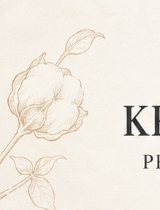
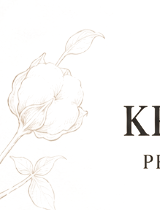
fix: restore clean pristine poster background, eliminate ghost inpaint artifacts, and apply alpha transparency to botanical assets

diff --git a/components/krishna/BotanicalDecoration.tsx b/components/krishna/BotanicalDecoration.tsx
@@ -8,7 +8,7 @@ export const BotanicalDecoration: React.FC = () => {
         src="/assets/botanical-cotton-top.png"
         alt=""
         aria-hidden="true"
-        className="absolute top-1 sm:top-2 left-0 w-24 sm:w-32 md:w-40 pointer-events-none select-none mix-blend-multiply opacity-75 z-0"
+        className="absolute top-0 left-0 w-24 sm:w-32 md:w-36 pointer-events-none select-none opacity-80 z-0"
       />
 
       {/* Top-Right: Botanical Groundnut/Peanut Illustration */}
@@ -16,7 +16,7 @@ export const BotanicalDecoration: React.FC = () => {
         src="/assets/botanical-peanut-top.png"
         alt=""
         aria-hidden="true"
-        className="absolute top-1 sm:top-2 right-0 w-24 sm:w-32 md:w-40 pointer-events-none select-none mix-blend-multiply opacity-75 z-0"
+        className="absolute top-0 right-0 w-24 sm:w-32 md:w-36 pointer-events-none select-none opacity-80 z-0"
       />
 
       {/* Bottom-Left: Cotton Branch Sketch */}
@@ -24,7 +24,7 @@ export const BotanicalDecoration: React.FC = () => {
         src="/assets/botanical-cotton-bottom.png"
         alt=""
         aria-hidden="true"
-        className="absolute bottom-0 left-0 w-20 sm:w-28 md:w-36 pointer-events-none select-none mix-blend-multiply opacity-70 z-0"
+        className="absolute bottom-0 left-0 w-20 sm:w-28 md:w-32 pointer-events-none select-none opacity-75 z-0"
       />
 
       {/* Bottom-Right: Peanuts Botanical Cluster Sketch */}
@@ -32,7 +32,7 @@ export const BotanicalDecoration: React.FC = () => {
         src="/assets/botanical-peanut-bottom.png"
         alt=""
         aria-hidden="true"
-        className="absolute bottom-0 right-0 w-20 sm:w-28 md:w-36 pointer-events-none select-none mix-blend-multiply opacity-70 z-0"
+        className="absolute bottom-0 right-0 w-20 sm:w-28 md:w-32 pointer-events-none select-none opacity-75 z-0"
       />
     </>
   );

diff --git a/app/page.tsx b/app/page.tsx
@@ -26,9 +26,37 @@ export default function DailyPricingLandingPage() {
       const savedData = localStorage.getItem("krishna_catalogue_data");
       if (savedData) {
         const parsed = JSON.parse(savedData);
+        // Clean out any legacy or corrupted template properties
+        delete parsed.customBgUrl;
+        delete parsed.templateId;
+        delete parsed.cottonSeedOil;
+        delete parsed.groundnutOil;
+
         setData({
+          ...INITIAL_CATALOGUE_DATA,
           ...parsed,
+          religiousHeading: parsed.religiousHeading || INITIAL_CATALOGUE_DATA.religiousHeading,
+          brandName: parsed.brandName || INITIAL_CATALOGUE_DATA.brandName,
+          subtitle: parsed.subtitle || INITIAL_CATALOGUE_DATA.subtitle,
+          footerNotice: parsed.footerNotice || INITIAL_CATALOGUE_DATA.footerNotice,
+          footerLocation: parsed.footerLocation || INITIAL_CATALOGUE_DATA.footerLocation,
           date: parsed.date || formattedDate,
+          trupti: {
+            ...INITIAL_CATALOGUE_DATA.trupti,
+            ...(parsed.trupti || {}),
+            brandName: parsed.trupti?.brandName || INITIAL_CATALOGUE_DATA.trupti.brandName,
+            subtitle: parsed.trupti?.subtitle || INITIAL_CATALOGUE_DATA.trupti.subtitle,
+            imageSrc: "/assets/trupti-product.png",
+            imageAlt: INITIAL_CATALOGUE_DATA.trupti.imageAlt,
+          },
+          krishna: {
+            ...INITIAL_CATALOGUE_DATA.krishna,
+            ...(parsed.krishna || {}),
+            brandName: parsed.krishna?.brandName || INITIAL_CATALOGUE_DATA.krishna.brandName,
+            subtitle: parsed.krishna?.subtitle || INITIAL_CATALOGUE_DATA.krishna.subtitle,
+            imageSrc: "/assets/krishna-product.png",
+            imageAlt: INITIAL_CATALOGUE_DATA.krishna.imageAlt,
+          },
         });
       } else {
         setData((prev) => ({

diff --git a/components/PriceCardPreview.tsx b/components/PriceCardPreview.tsx
@@ -20,6 +20,7 @@ export const PriceCardPreview = forwardRef<HTMLDivElement, PriceCardPreviewProps
         id="price-card-canvas"
         className="relative w-full max-w-[560px] aspect-[1122/1402] mx-auto rounded-3xl bg-[#FAF5EF] border border-[#E5DACD] shadow-2xl overflow-hidden p-4 sm:p-6 md:p-7 flex flex-col justify-between select-text"
         style={{
+          background: "radial-gradient(circle at 50% 25%, #FDFBF7 0%, #FAF5EF 65%, #F5EDE1 100%)",
           boxShadow: "0 25px 50px -12px rgba(120, 80, 40, 0.15)",
         }}
       >

diff --git a/components/krishna/ProductImage.tsx b/components/krishna/ProductImage.tsx
@@ -7,7 +7,7 @@ interface ProductImageProps {
 
 export const ProductImage: React.FC<ProductImageProps> = ({ src, alt }) => {
   return (
-    <div className="w-full aspect-[378/420] rounded-2xl sm:rounded-3xl overflow-hidden bg-[#F0E6D8] shadow-xs">
+    <div className="w-full aspect-[376/418] rounded-2xl sm:rounded-[28px] overflow-hidden select-none block bg-[#FAF5EF]">
       <img
         src={src}
         alt={alt}

diff --git a/components/krishna/ReligiousHeading.tsx b/components/krishna/ReligiousHeading.tsx
@@ -24,7 +24,7 @@ export const ReligiousHeading: React.FC<ReligiousHeadingProps> = ({
           src="/assets/ornament.png"
           alt=""
           aria-hidden="true"
-          className="h-3 sm:h-3.5 md:h-4 w-auto object-contain mix-blend-multiply select-none"
+          className="h-3 sm:h-3.5 md:h-4 w-auto object-contain select-none opacity-90"
         />
 
         {/* Right Thin Divider */}
